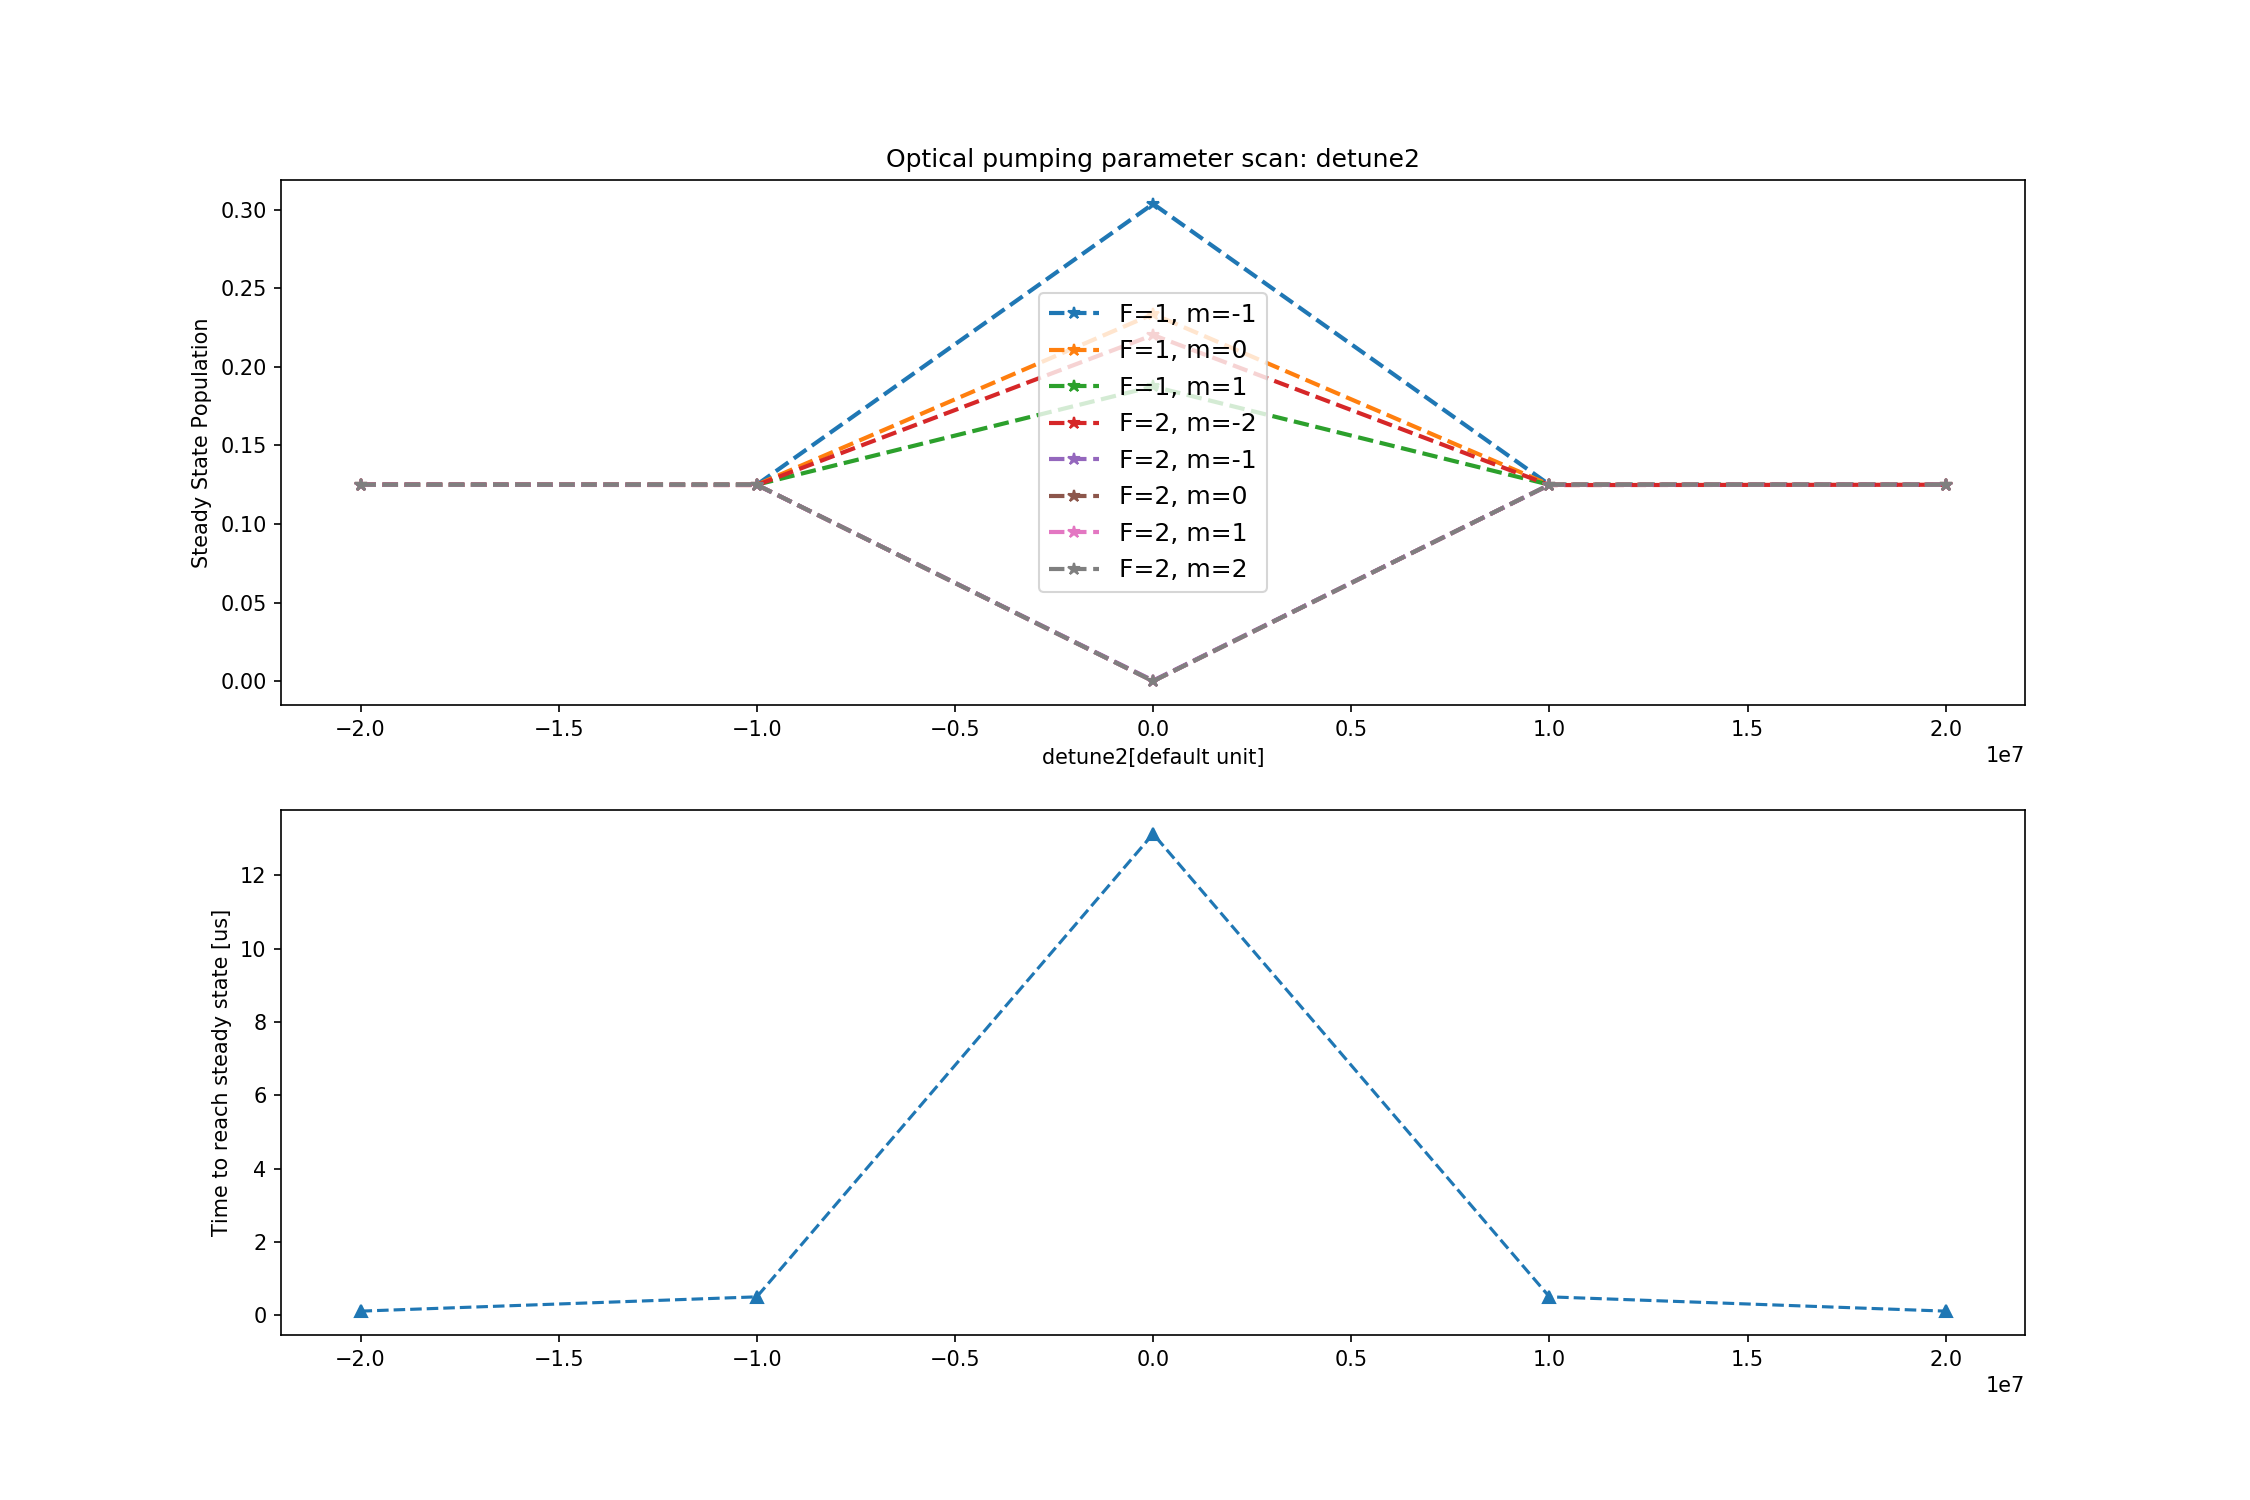
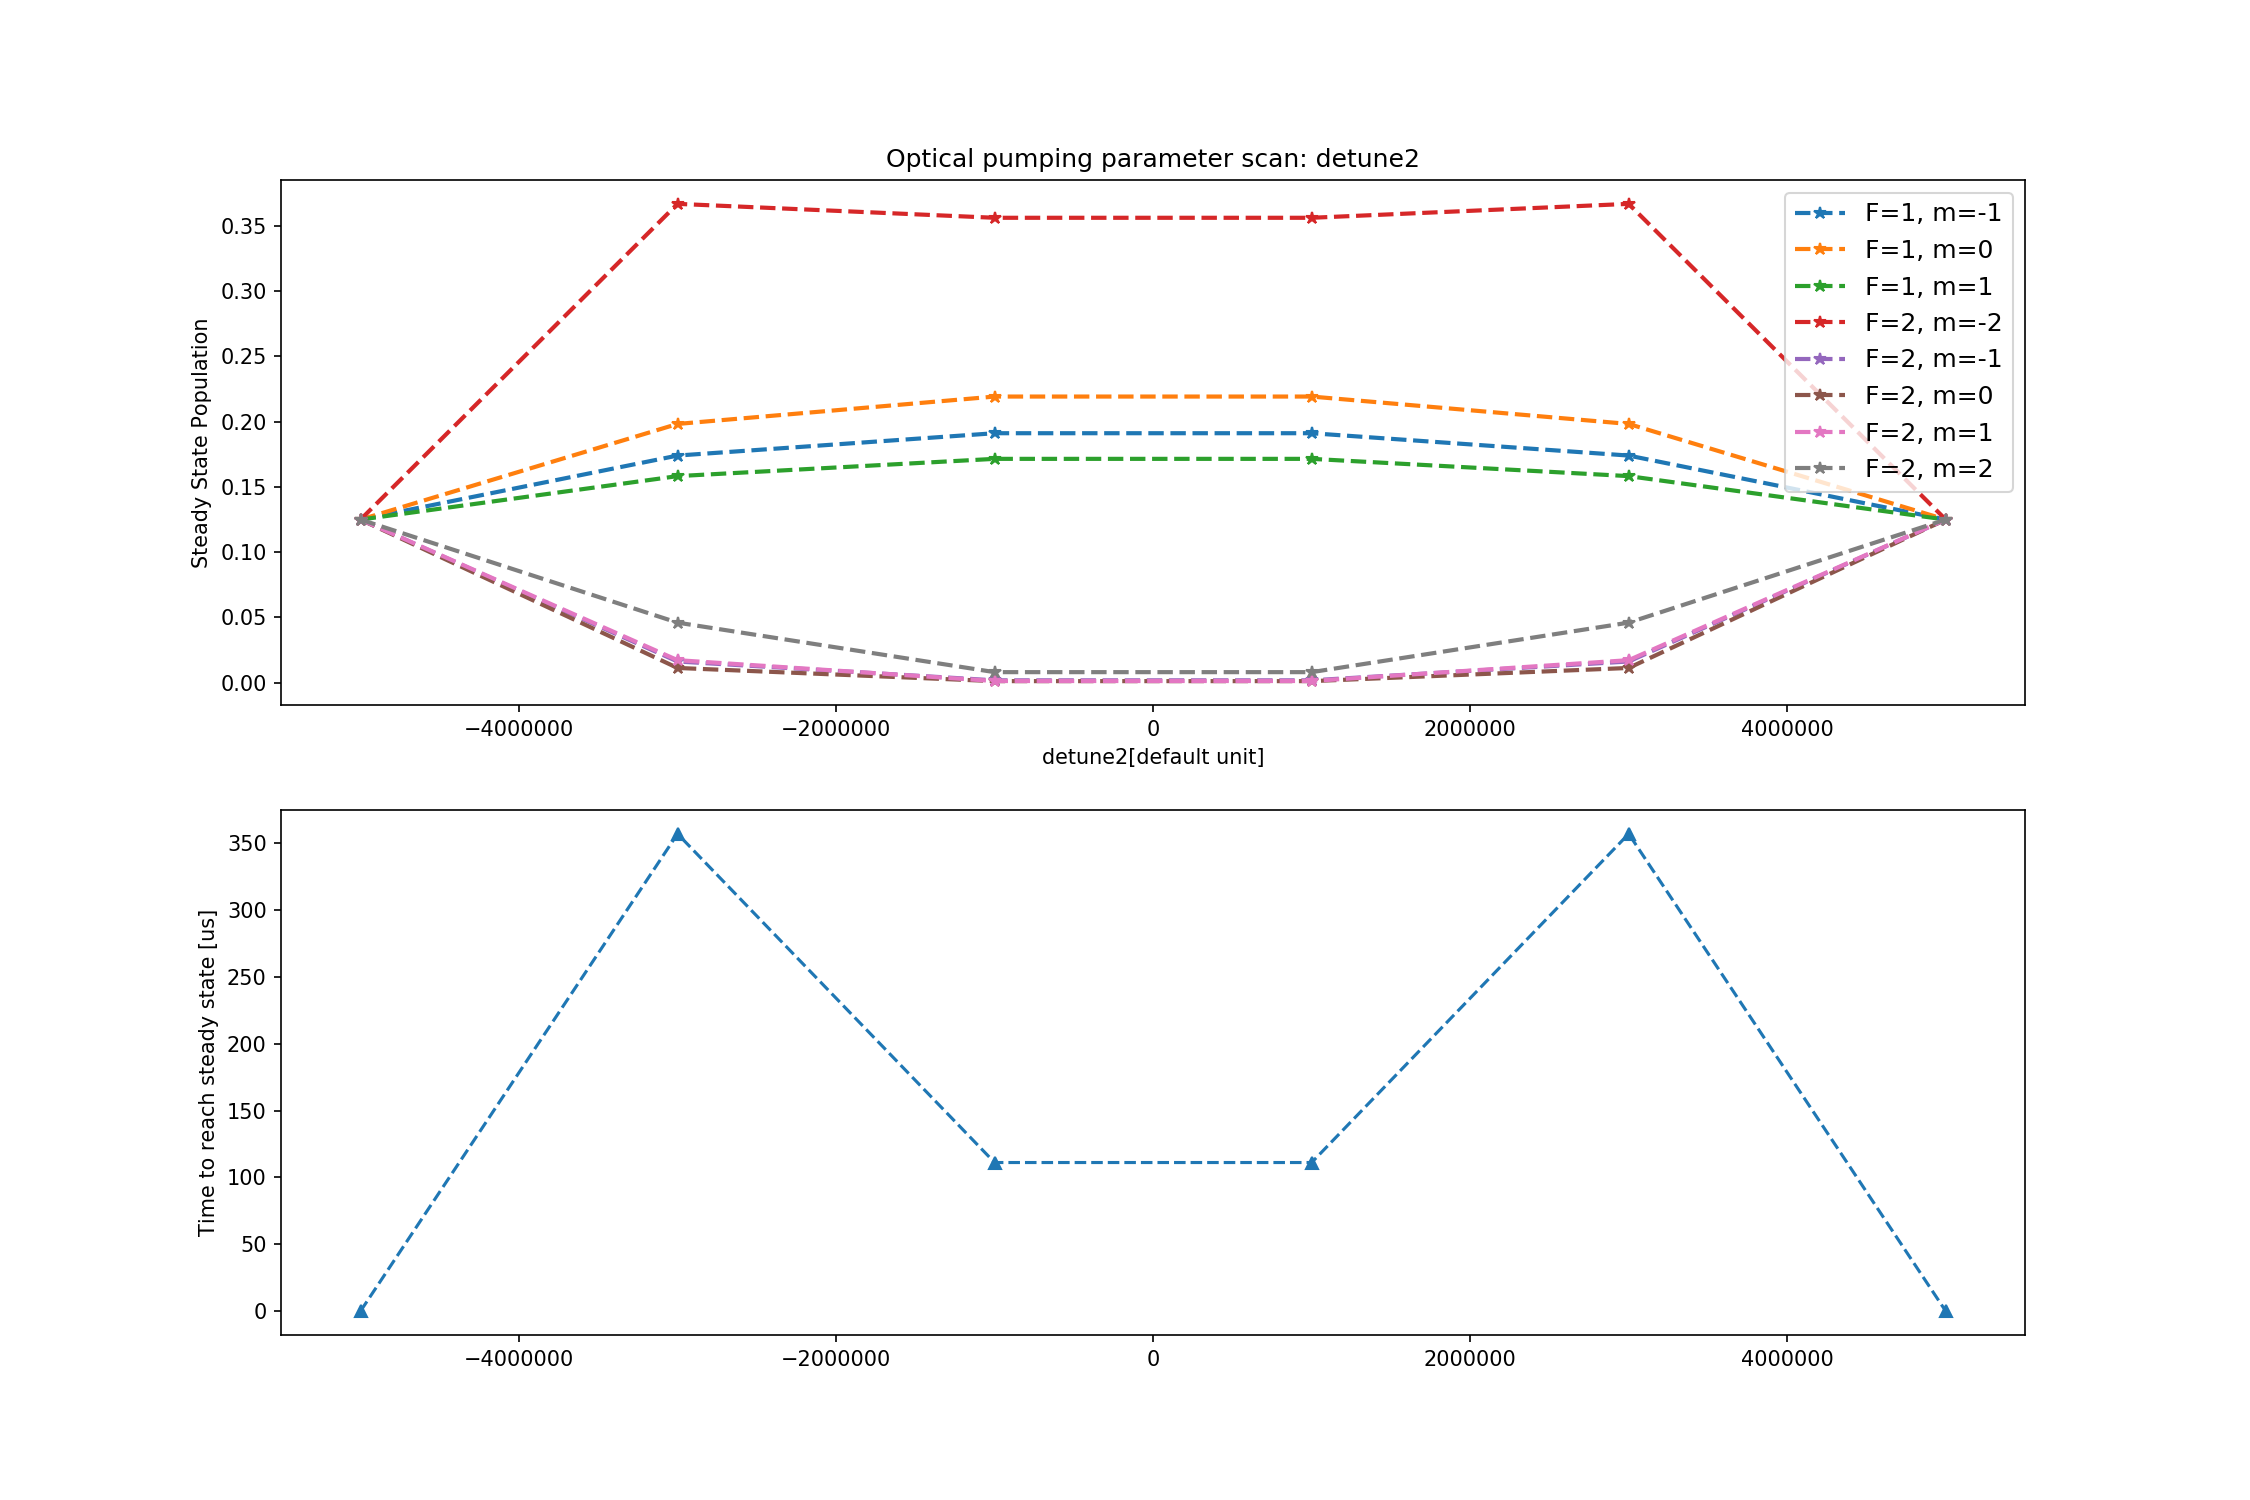
add scan progress report

diff --git a/opli7/simulator.py b/opli7/simulator.py
@@ -9,14 +9,15 @@
 # 
 # Created: Wed Nov 14 00:34:58 2018 (-0600)
 # Version: 
-# Last-Updated: Thu Nov 15 16:05:23 2018 (-0600)
+# Last-Updated: Fri Nov 16 00:24:53 2018 (-0600)
 #           By: yulu
-#     Update #: 107
+#     Update #: 152
 # 
 from .optPumping import OptPumping
 from .plot import plotPopulation, plotParameterScan
 import numpy as np
 import pickle
+import sys
 
 class Simulator:
     """Optical Pumping Simulator 
@@ -124,9 +125,13 @@ class Simulator:
         # Initialization of population dictionary 
         popG = {} # Ground states population dictionary, dic of list of 2d array
         popE = {} # Excited states population dictionary, dic of list of 2d array
-        
+
+        print("\nProgress:")
+        iter_5pct_num = self.numSteps * 0.05
         for i in range(self.numSteps):
-        
+            if i % iter_5pct_num == 0:
+                print("%d%%" %int(i/self.numSteps * 100), end = ' ')
+                sys.stdout.flush()
             if i == 0:
                 # Initial states
                 popG['F1'] = [p.pop_Ground['F1']]
@@ -209,7 +214,7 @@ class Simulator:
         Scan one of inpute parameters and extract the population of ground state 
         when reaching the steady state
         """
-        print("OPLI Simulator parameter scan module\n--------------------------")
+        print("\nOPLI Simulator parameter scan module\n--------------------------")
         print("Scanning parameter: %s" %scanKey)
         print("Simulation rounds: %d" %len(scanValues))
         if not (scanKey and scanKey in self.__dict__):
@@ -219,9 +224,9 @@ class Simulator:
             return
         
         for i,val in enumerate(scanValues):
+            print("Round %d" %i, end = ' ')
             self.__dict__[scanKey] = val
             clock, popG, popE, steadyIdx  = self.simulate()
-            
             if i == 0:
                 steadyPopG = {'F1': [popG['F1'][steadyIdx]],
                               'F2': [popG['F2'][steadyIdx]]}
@@ -236,6 +241,8 @@ class Simulator:
                 for key in popE.keys():
                     steadyPopE[key].append(popE[key][steadyIdx])
                 steadyTime.append(clock[steadyIdx])
+            if not steadyIdx:
+                print("\nNo steady state reached in given simulation time, extend the simulation time\nif you want to see it saturates!\n")
                     
         steadyTime = np.array(steadyTime)
         plotParameterScan(scanKey, scanValues, steadyPopG, steadyPopE, steadyTime)

diff --git a/opli7/plot.py b/opli7/plot.py
@@ -10,9 +10,9 @@
 # 
 # Created: Thu Oct  5 17:52:51 2017 (-0500)
 # Version: V1.0
-# Last-Updated: Thu Nov 15 15:12:52 2018 (-0600)
+# Last-Updated: Fri Nov 16 00:51:57 2018 (-0600)
 #           By: yulu
-#     Update #: 101
+#     Update #: 109
 # 
 import matplotlib.pyplot as plt
 import os
@@ -25,22 +25,22 @@ def plotPopulation( clock,  Dline, eStates, polarization1, polarization2, I1, I2
     optionally save the figure to ./img/ folder
     """
     excitedState = '2P3halves(unresolved)' if Dline == 'D2' else eStates[0]
-    lw = 3
+    lw = 2
     
     fig = plt.figure(figsize = (15, 15), dpi = 150)
     ax1 = fig.add_subplot(211)
     ax2 = fig.add_subplot(212)
     
-    for f in ['F1', 'F2']:# Ground states
+    for f, fmt in zip(['F1', 'F2'], ['-', '--']):# Ground states
         fNum = int(f[-1])
         for i in range(2 * fNum + 1):
-            ax1.plot(clock * 1e6, [x[0][i] for x in popG[f]], "-", \
+            ax1.plot(clock * 1e6, [x[0][i] for x in popG[f]], fmt, \
                      label = "F=" + str(fNum) + ", m=" + str(-fNum+ i), linewidth = lw)
     ax1.set_title('Li7 ' +  Dline + ' transition ground(top) and excited(bottom)  hpf states population\n' \
                   + 'F1 -> ' + excitedState + ': ' + polarization1 + ' pol.  ' + str(I1) + ' mW/cm2 || ' \
                   + 'F2 -> ' + excitedState + ': ' + polarization2 + ' pol.  ' + str(I2) + ' mW/cm2', fontsize = 15)
     ax1.set_xlabel('Time [us]')
-    ax1.legend(fontsize = 12)
+    ax1.legend(fontsize = 10)
 
     
     for f in list(popE.keys()):#p.eStates:
@@ -49,7 +49,7 @@ def plotPopulation( clock,  Dline, eStates, polarization1, polarization2, I1, I2
             ax2.plot(clock * 1e6, [x[0][i] for x in popE[f]], "-",\
                      label = "F=" + str(fNum) + ", m=" + str(-fNum+ i), linewidth = lw)
     ax2.set_xlabel('Time [us]')
-    ax2.legend(fontsize = 12)
+    ax2.legend(fontsize = 10)
 
     if saveFig:
         if not os.path.isdir("./img/"):

diff --git a/examples/example_detune_scan.py b/examples/example_detune_scan.py
@@ -9,9 +9,9 @@
 # 
 # Created: Thu Nov 15 00:03:18 2018 (-0600)
 # Version: 
-# Last-Updated: Thu Nov 15 15:30:57 2018 (-0600)
+# Last-Updated: Fri Nov 16 00:12:07 2018 (-0600)
 #           By: yulu
-#     Update #: 22
+#     Update #: 25
 # 
 
 import sys
@@ -26,9 +26,9 @@ except ModuleNotFoundError:
     
 if __name__ == '__main__':
     s = Simulator(config = './config.in')
+    print("Model Parameters:")
     print(s)
-    #[bug, has dead loop] s.scan(scanKey = 'detune2', scanValues = np.linspace(-20e6, 20e6, 5))
-    s.scan(scanKey = 'detune2', scanValues = np.linspace(-20e6, 20e6, 5))
+    s.scan(scanKey = 'detune2', scanValues = np.linspace(-5e6, 5e6, 6))
     
 
 
